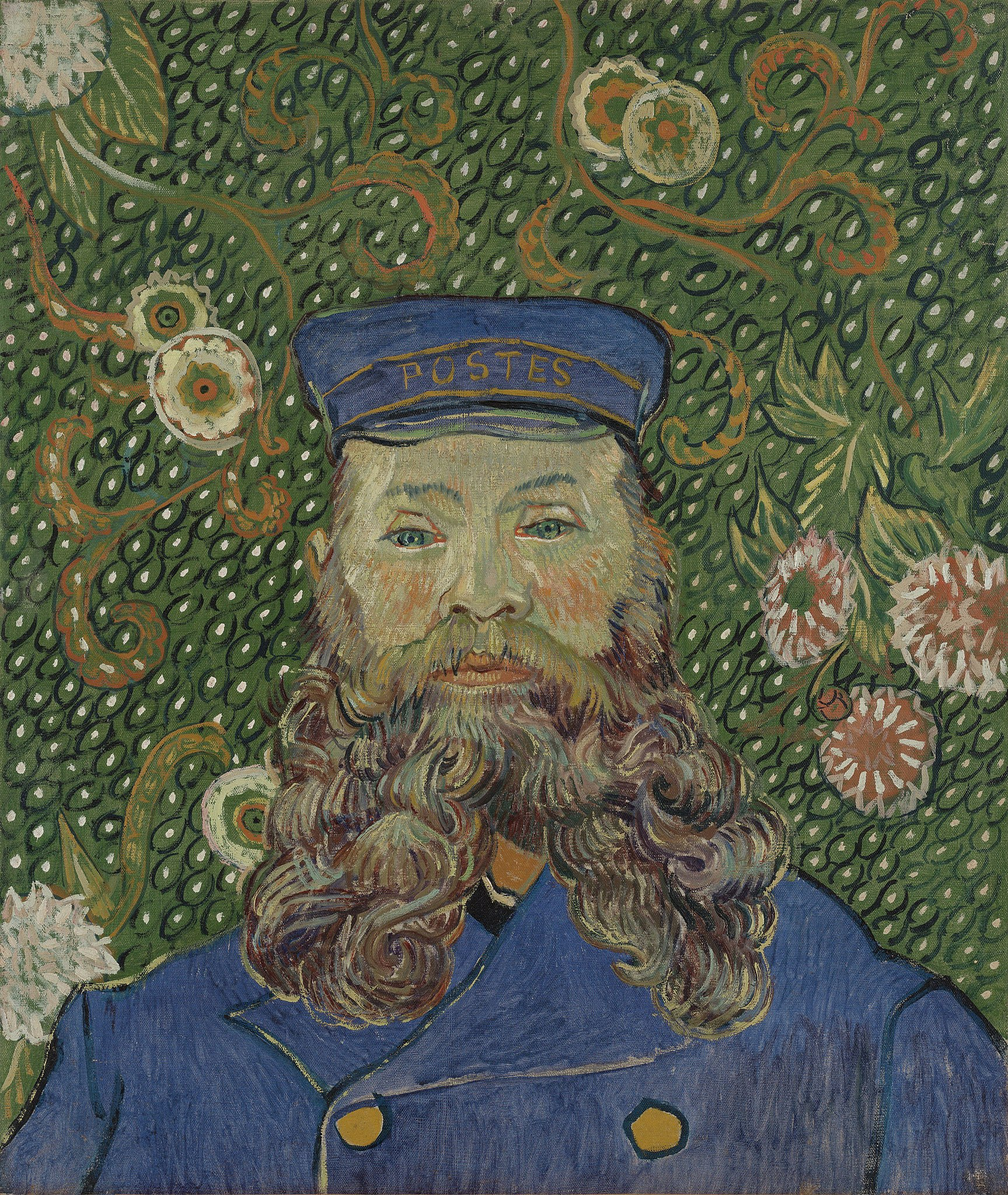
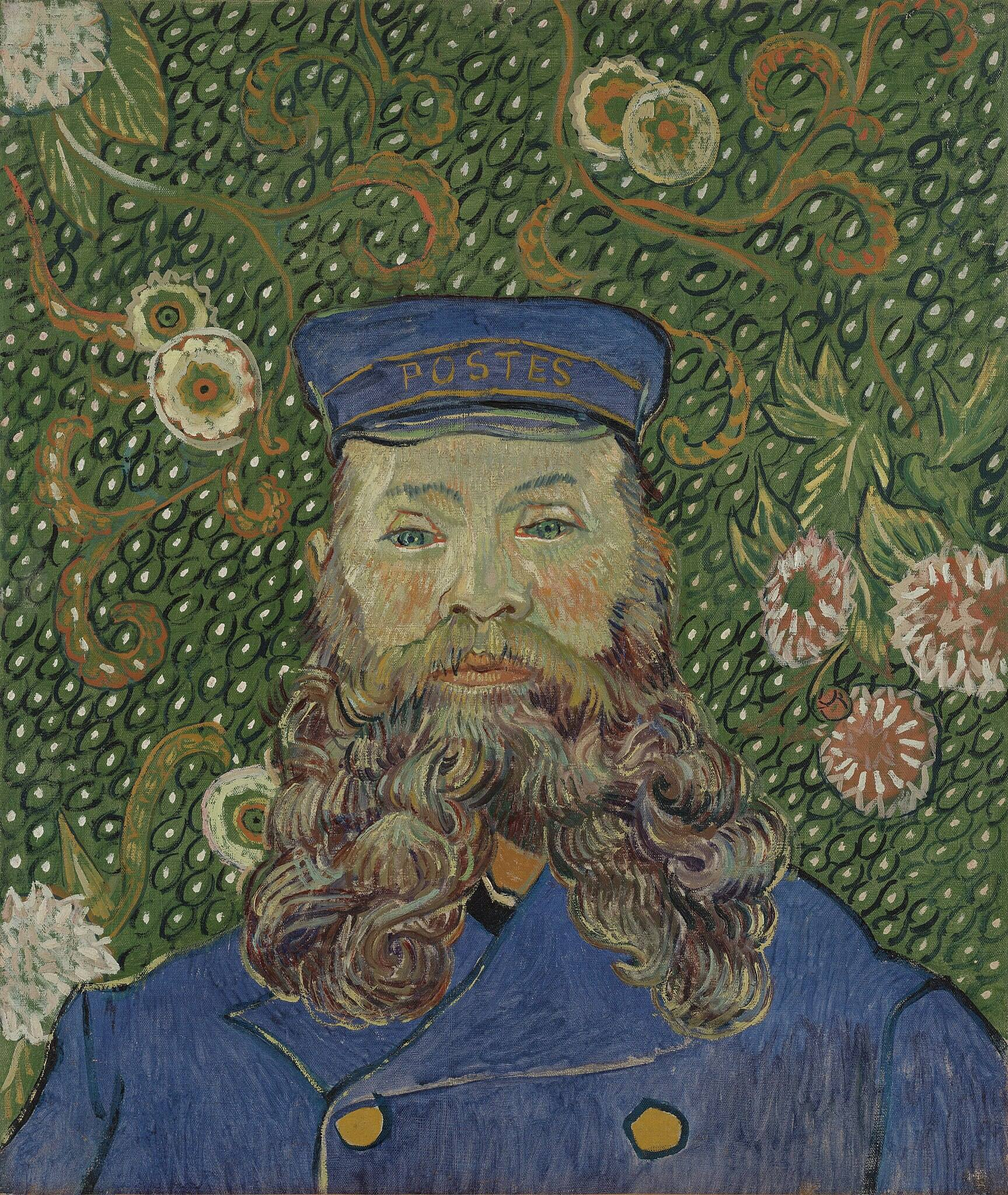
actualización de imagenes comprimidas

diff --git a/paginas/biografia.html b/paginas/biografia.html
@@ -8,6 +8,7 @@
     <link rel="icon" href="../imagenes/icono2.png">
     <meta name="description" content="Vida y Obra. Vincent Willem van Gogh fue un pintor neerlandés, uno de los principales exponentes del postimpresionismo. Pintó unos 800 cuadros y realizó más de 1600 dibujos.">
     <meta name="keywords" content="Van Gogh biografía, van gogh oreja, biografia resumida, causa de muerte, donde nacio, datos curiosos">
+    <meta name="author" content="Brenda Zaya">
     <link href="https://cdn.jsdelivr.net/npm/bootstrap@5.1.3/dist/css/bootstrap.min.css" rel="stylesheet" integrity="sha384-1BmE4kWBq78iYhFldvKuhfTAU6auU8tT94WrHftjDbrCEXSU1oBoqyl2QvZ6jIW3" crossorigin="anonymous">
     <link rel="stylesheet" href="https://cdnjs.cloudflare.com/ajax/libs/font-awesome/6.1.1/css/all.min.css" integrity="sha512-KfkfwYDsLkIlwQp6LFnl8zNdLGxu9YAA1QvwINks4PhcElQSvqcyVLLD9aMhXd13uQjoXtEKNosOWaZqXgel0g==" crossorigin="anonymous" referrerpolicy="no-referrer" />
     <link rel="stylesheet" href="../estilos/estilos.css">

diff --git a/paginas/cartas.html b/paginas/cartas.html
@@ -8,6 +8,7 @@
     <link rel="icon" href="../imagenes/icono2.png">
     <meta name="description" content="Vincent Van Gogh era un ávido escritor, dejando 903 cartas sobrevivientes, dirigidas en su mayoría a su hermano Theo, a otros familiares, y a artístas como Paul Gauguin, Anton van Rappard y Émile Bernard.">
     <meta name="keywords" content="Van Gogh cartas, cartas a Theo, hermano, dibujos, frases ">
+    <meta name="author" content="Brenda Zaya">
     <link href="https://cdn.jsdelivr.net/npm/bootstrap@5.1.3/dist/css/bootstrap.min.css" rel="stylesheet" integrity="sha384-1BmE4kWBq78iYhFldvKuhfTAU6auU8tT94WrHftjDbrCEXSU1oBoqyl2QvZ6jIW3" crossorigin="anonymous">
     <link rel="stylesheet" href="https://cdnjs.cloudflare.com/ajax/libs/font-awesome/6.1.1/css/all.min.css" integrity="sha512-KfkfwYDsLkIlwQp6LFnl8zNdLGxu9YAA1QvwINks4PhcElQSvqcyVLLD9aMhXd13uQjoXtEKNosOWaZqXgel0g==" crossorigin="anonymous" referrerpolicy="no-referrer" />
     <link rel="stylesheet" href="../estilos/estilos.css">    

diff --git a/paginas/pinturas.html b/paginas/pinturas.html
@@ -8,6 +8,7 @@
     <link rel="icon" href="../imagenes/icono2.png">
     <meta name="description" content="Van Gogh representó una vía divergente del impresionismo, donde los pintores hacen de la vida cotidiana su tema principal.">
     <meta name="keywords" content="Van Gogh dibujos, la noche estrellada, los girasoles, postimpresionismo, galeria, imagine, impresionismo, autorretrato">
+    <meta name="author" content="Brenda Zaya">
     <link href="https://cdn.jsdelivr.net/npm/bootstrap@5.1.3/dist/css/bootstrap.min.css" rel="stylesheet" integrity="sha384-1BmE4kWBq78iYhFldvKuhfTAU6auU8tT94WrHftjDbrCEXSU1oBoqyl2QvZ6jIW3" crossorigin="anonymous">
     <link rel="stylesheet" href="https://cdnjs.cloudflare.com/ajax/libs/font-awesome/6.1.1/css/all.min.css" integrity="sha512-KfkfwYDsLkIlwQp6LFnl8zNdLGxu9YAA1QvwINks4PhcElQSvqcyVLLD9aMhXd13uQjoXtEKNosOWaZqXgel0g==" crossorigin="anonymous" referrerpolicy="no-referrer" />
     <link rel="stylesheet" href="../estilos/estilos.css">

diff --git a/index.htm b/index.htm
@@ -8,6 +8,7 @@
     <link rel="icon" href="./imagenes/icono2.png">
     <meta name="description" content="Pinturas, Obras, Biografía e información sobre el pintor neerlandés, Vincent Van Gogh">
     <meta name="keywords" content="Vincent Van Gogh, Pintor, Arte, van gogh amsterdam, van gogh dibujos, postimpresionismo">
+    <meta name="author" content="Brenda Zaya">
     <link href="https://cdn.jsdelivr.net/npm/bootstrap@5.1.3/dist/css/bootstrap.min.css" rel="stylesheet" integrity="sha384-1BmE4kWBq78iYhFldvKuhfTAU6auU8tT94WrHftjDbrCEXSU1oBoqyl2QvZ6jIW3" crossorigin="anonymous">
     <link rel="stylesheet" href="https://cdnjs.cloudflare.com/ajax/libs/font-awesome/6.1.1/css/all.min.css" integrity="sha512-KfkfwYDsLkIlwQp6LFnl8zNdLGxu9YAA1QvwINks4PhcElQSvqcyVLLD9aMhXd13uQjoXtEKNosOWaZqXgel0g==" crossorigin="anonymous" referrerpolicy="no-referrer" />
     <link rel="stylesheet" href="./estilos/estilos.css">

diff --git a/estilos/__generales.scss b/estilos/__generales.scss
@@ -111,6 +111,7 @@
     .navbar {
         background-color: $colorPrimario;
         padding: 0;
+        padding-right: 16px;
 
         .navbar-toggler {
             border: 0;

diff --git a/estilos/estilos.css b/estilos/estilos.css
@@ -102,6 +102,7 @@
 .navbar {
   background-color: #074073;
   padding: 0;
+  padding-right: 16px;
 }
 
 .navbar .navbar-toggler {
